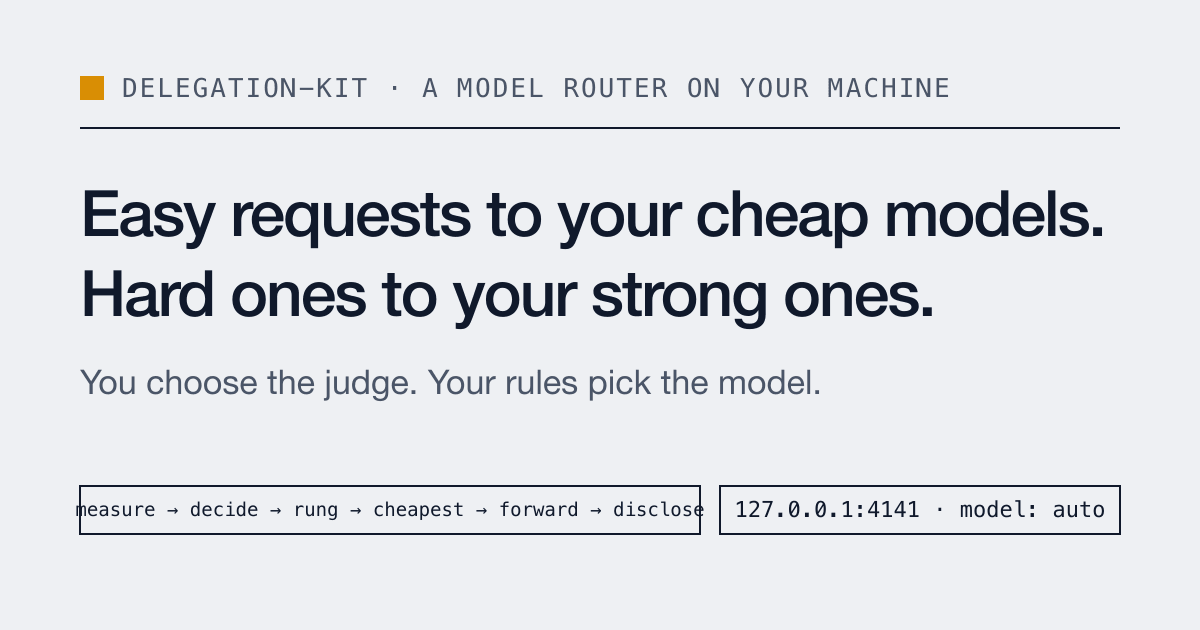
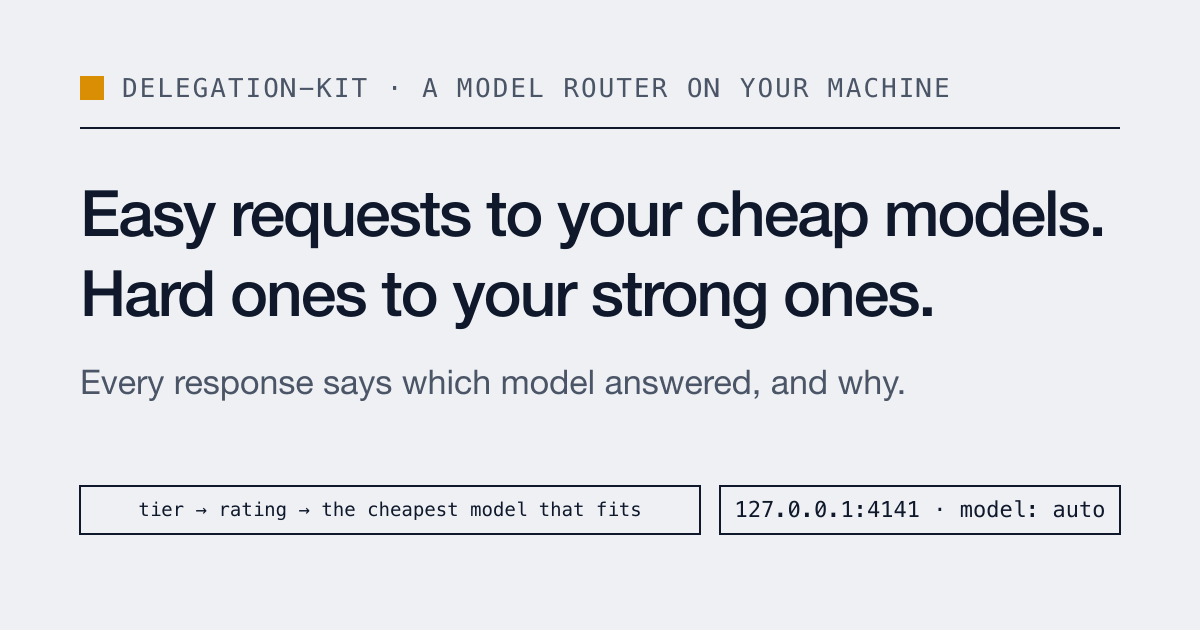
site: one name per page, grouped docs nav, hand dispatch under the docs
- Top nav: How it picks · Get started · Router reference · GitHub; Changelog
  moves to the footer and the sidebar. Skip link to #main.
- Docs sidebar in four groups (Start, Router, Under the hood, Project).
- /dispatch becomes /docs/dispatch/ "Run a model by hand" in DocLayout, with
  a redirect from the old path; plain labels in the resolver.
- Meta, OG image and the synced pages' notes use the one definition; sync
  notices move into HTML comments (AUTOGEN blocks untouched).
- prose.css: tables scroll instead of the page, inline code wraps and is
  calmer, 62ch lines, ink code blocks with legible comments, no sidebar
  bullets; element rules skip .not-prose components.
- CodeBlock: the Copy button sits on the code and stays visible on touch.
- --color-explicit-strong for amber lines and text on paper.

Changed region(s): [[0.0617, 0.573, 0.7708, 0.6333], [0.0617, 0.7841, 0.5858, 0.8444]]

diff --git a/public/prose.css b/public/prose.css
@@ -1,6 +1,7 @@
 /* MDX prose typography (.doc) — imported only by DocLayout, so it ships only
  * with long-form pages (/docs/*, /changelog, /privacy). Non-doc pages (/)
- * never load these rules.
+ * never load these rules. Element rules that would restyle a component
+ * (lists, paragraphs, tables) skip anything inside `.not-prose`.
  *
  * `.doc pre` rules are wrapped in :where() so Tailwind utilities applied
  * directly on <CodeBlock>'s <pre> still win the cascade. Inline-code rules
@@ -11,11 +12,11 @@
 .doc h2,
 .doc h3,
 .doc h4,
-.doc p,
-.doc ul,
-.doc ol,
+.doc p:not(.not-prose *),
+.doc ul:not(.not-prose *),
+.doc ol:not(.not-prose *),
 .doc blockquote {
-  max-width: 70ch;
+  max-width: 62ch;
 }
 
 .doc h1 {
@@ -56,8 +57,8 @@
   margin: 1.5rem 0 0.25rem;
 }
 
-.doc p {
-  margin: 0 0 1rem;
+.doc p:not(.not-prose *) {
+  margin: 0 0 1.1rem;
   line-height: 1.7;
 }
 
@@ -82,21 +83,21 @@
   text-decoration-color: var(--color-explicit);
 }
 
-.doc ul,
-.doc ol {
+.doc ul:not(.not-prose *),
+.doc ol:not(.not-prose *) {
   margin: 0 0 1.25rem;
   padding-left: 1.5rem;
 }
 
-.doc ul {
+.doc ul:not(.not-prose *) {
   list-style: disc;
 }
 
-.doc ol {
+.doc ol:not(.not-prose *) {
   list-style: decimal;
 }
 
-.doc li {
+.doc li:not(.not-prose *) {
   margin: 0.4rem 0;
   padding-left: 0.25rem;
   line-height: 1.65;
@@ -114,11 +115,11 @@
 .doc :not(pre) > code {
   font-family: var(--font-mono);
   font-size: 0.85em;
-  background: var(--color-panel);
-  border: 1px solid var(--color-line);
-  border-radius: 4px;
-  padding: 0.1em 0.4em;
+  background: rgb(16 25 43 / 0.06);
+  border-radius: 3px;
+  padding: 0.05em 0.3em;
   color: var(--color-ink);
+  overflow-wrap: anywhere;
 }
 
 :where(.doc pre) {
@@ -133,6 +134,18 @@
   margin: 0 0 1.25rem;
 }
 
+/* Shiki's blocks in Markdown look like the home page's: ink, square. */
+.doc pre.astro-code {
+  background: var(--color-ink) !important;
+  border: 0;
+  border-radius: 0;
+}
+
+/* github-dark comments (#6A737D) are 3.4:1 on ink; this grey is 5.7:1. */
+.doc .astro-code span[style*='#6A737D' i] {
+  color: #8b949e !important;
+}
+
 :where(.doc pre code) {
   background: transparent;
   border: 0;
@@ -140,26 +153,29 @@
   font-size: inherit;
 }
 
-.doc table {
+.doc table:not(.not-prose *) {
+  display: block;
+  overflow-x: auto;
+  max-width: 100%;
   width: 100%;
   border-collapse: collapse;
   margin: 1.5rem 0 2rem;
   font-size: 0.9rem;
 }
 
-.doc thead {
+.doc thead:not(.not-prose *) {
   border-bottom: 1px solid var(--color-line);
 }
 
-.doc th,
-.doc td {
+.doc th:not(.not-prose *),
+.doc td:not(.not-prose *) {
   text-align: left;
   padding: 0.6rem 0.75rem;
   border-bottom: 1px solid var(--color-line);
   vertical-align: top;
 }
 
-.doc th {
+.doc th:not(.not-prose *) {
   font-weight: 600;
   color: var(--color-ink-soft);
   text-transform: uppercase;
@@ -167,7 +183,7 @@
   letter-spacing: 0.05em;
 }
 
-.doc tbody tr:hover {
+.doc tbody tr:not(.not-prose *):hover {
   background: var(--color-panel);
 }
 
@@ -185,7 +201,24 @@
   font-style: italic;
 }
 
-/* Component grids escape the 70ch text constraint (e.g. AgentLogo matrix). */
+/* The docs sidebar is a plain list of links, without bullets. */
+.doc aside ul:not(.not-prose *) {
+  list-style: none;
+  padding-left: 0;
+  margin: 0;
+  max-width: none;
+}
+
+.doc aside li:not(.not-prose *) {
+  margin: 0;
+  padding-left: 0;
+}
+
+.doc aside p:not(.not-prose *) {
+  margin: 0 0 0.5rem;
+}
+
+/* Component grids escape the 62ch text constraint (e.g. AgentLogo matrix). */
 .doc .not-prose {
   max-width: none;
   margin: 1.5rem 0 2rem;

diff --git a/src/styles/global.css b/src/styles/global.css
@@ -20,6 +20,9 @@
 
   --color-qualified: #1f8a5b;
   --color-explicit: #d98e04;
+  /* The same amber, dark enough (3.5:1) for lines and text on paper. Fills
+   * and amber on ink keep --color-explicit. */
+  --color-explicit-strong: #b07200;
   --color-blocked: #b9382a;
   --color-qualified-soft: #dff1e7;
   --color-explicit-soft: #fbeed2;

diff --git a/src/pages/docs/router.md b/src/pages/docs/router.md
@@ -1,11 +1,13 @@
 ---
 layout: ../../layouts/DocLayout.astro
-title: 'The router — delegation-kit'
-description: 'delegation-router: you choose the decision model, it governs the models you already pay for. Commands, configuration, how a request is routed, where the rungs come from, deciders, disclosure, errors, eval.'
+title: 'Router reference — delegation-kit'
+description: 'How the router picks a model for each request: the decider, the tiers, the price rule, what each response says, errors and eval.'
 path: '/docs/router'
 ---
 
-> Synced from [`docs/router.md`](https://github.com/matteoscurati/delegation-kit/blob/main/docs/router.md) in the kit repository. Edit there, not here.
+<!-- Synced from docs/router.md in the kit repository: edit there, not here. -->
+
+> The full reference. New here? Start with [Getting started](/docs/).
 
 <!-- BEGIN AUTOGEN -->
 

diff --git a/src/pages/changelog/index.md b/src/pages/changelog/index.md
@@ -7,10 +7,11 @@ path: '/changelog'
 
 # Changelog
 
-Every release, newest first. Synced from
-[`CHANGELOG.md`](https://github.com/matteoscurati/delegation-kit/blob/main/CHANGELOG.md)
-in the kit repository by `npm run sync-kit` — edit there, not here. Tags follow
-`delegation-kit--v<version>` and each one has a GitHub Release.
+<!-- Synced from CHANGELOG.md in the kit repository by `npm run sync-kit`: edit
+there, not here. Tags follow delegation-kit--v<version> and each one has a
+GitHub Release. -->
+
+Every release, newest first.
 
 <!-- BEGIN AUTOGEN -->
 

diff --git a/src/pages/privacy.md b/src/pages/privacy.md
@@ -1,7 +1,7 @@
 ---
 layout: ../layouts/DocLayout.astro
-title: 'Privacy — delegation-kit.sh'
-description: 'Privacy policy for delegation-kit.sh. Cookieless, privacy-first analytics via Cloudflare Web Analytics. No tracking, no advertising, no third parties.'
+title: 'Privacy — delegation-kit'
+description: 'Privacy policy for delegation-kit.sh: cookieless Cloudflare Web Analytics, no ads, no cross-site tracking.'
 path: '/privacy'
 ---
 

diff --git a/src/pages/docs/configuration.md b/src/pages/docs/configuration.md
@@ -5,7 +5,7 @@ description: 'How delegation-kit profiles, adapters, keys and review policies wo
 path: '/docs/configuration'
 ---
 
-> Synced from [`docs/user-configuration.md`](https://github.com/matteoscurati/delegation-kit/blob/main/docs/user-configuration.md) in the kit repository. Edit there, not here.
+<!-- Synced from docs/user-configuration.md in the kit repository: edit there, not here. -->
 
 <!-- BEGIN AUTOGEN -->
 

diff --git a/src/pages/docs/executors.md b/src/pages/docs/executors.md
@@ -5,7 +5,7 @@ description: 'The external runners as adapters: what each can do, the three perm
 path: '/docs/executors'
 ---
 
-> Synced from [`docs/external-executors.md`](https://github.com/matteoscurati/delegation-kit/blob/main/docs/external-executors.md) in the kit repository. Edit there, not here.
+<!-- Synced from docs/external-executors.md in the kit repository: edit there, not here. -->
 
 <!-- BEGIN AUTOGEN -->
 

diff --git a/src/pages/docs/compatibility.md b/src/pages/docs/compatibility.md
@@ -5,7 +5,7 @@ description: 'Supported-agent matrix, verified release snapshots, and host-speci
 path: '/docs/compatibility'
 ---
 
-> Synced from [`docs/compatibility.md`](https://github.com/matteoscurati/delegation-kit/blob/main/docs/compatibility.md) in the kit repository. Edit there, not here.
+<!-- Synced from docs/compatibility.md in the kit repository: edit there, not here. -->
 
 <!-- BEGIN AUTOGEN -->
 
